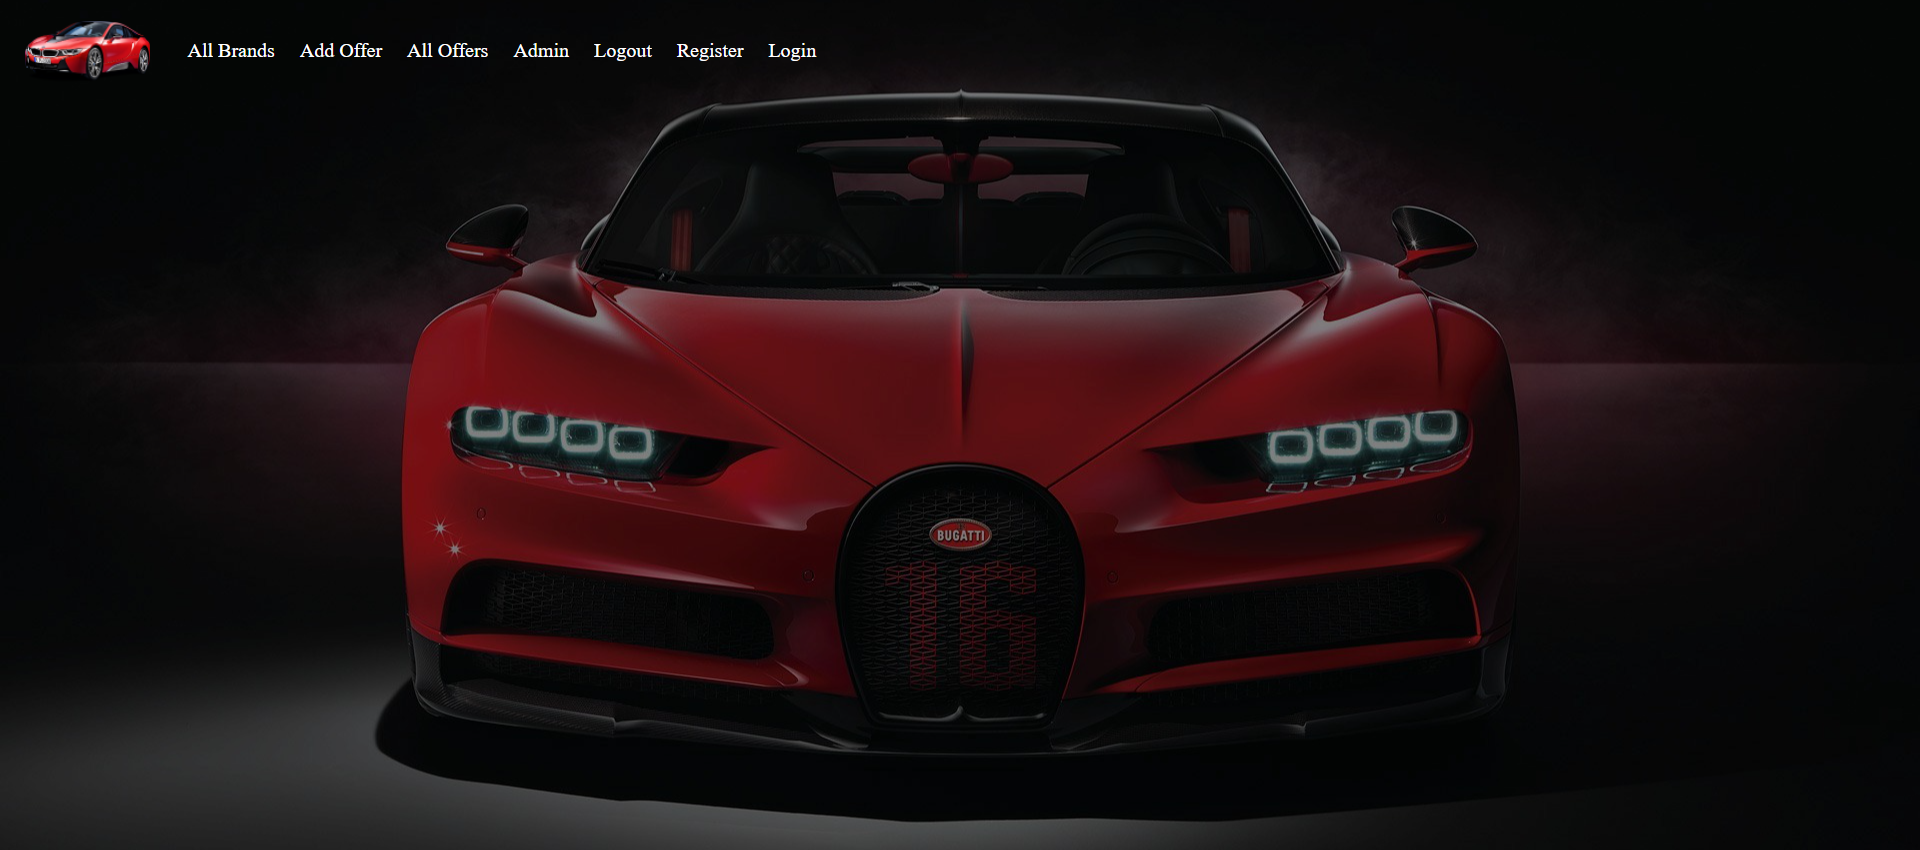
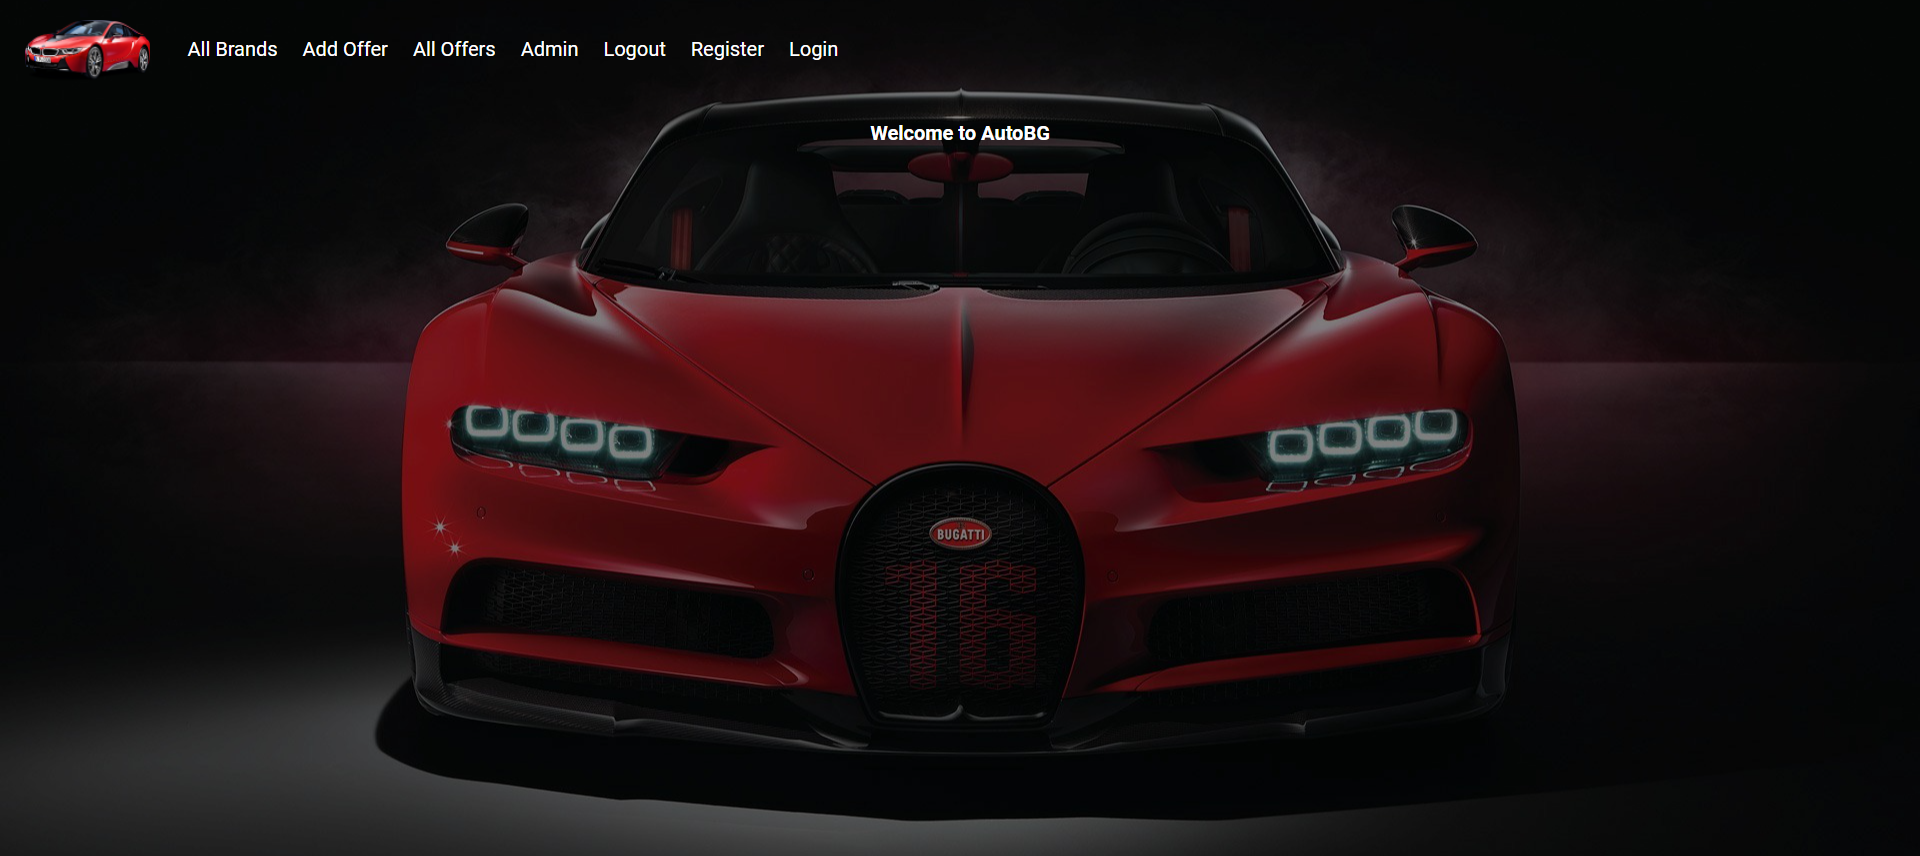
[Update] Changed the font family of the navigation

diff --git a/src/main/resources/static/css/main.css b/src/main/resources/static/css/main.css
@@ -6,6 +6,7 @@ body {
     background-size: cover;
     background-color: #464646;
     position: relative;
+    font-family: 'Roboto', sans-serif;
 
 }
 
@@ -40,5 +41,12 @@ body {
 
 .nav ul li {
     margin-right: 10px;
+}
+
+.welcome-msg {
+    color: white;
+    text-align: center;
+    margin-top: 30px;
+    font-weight: bold;
 }
 

diff --git a/src/main/resources/templates/index.html b/src/main/resources/templates/index.html
@@ -27,6 +27,10 @@
     </ul>
 </nav>
 
+<h3 class="welcome-msg">
+    Welcome to AutoBG
+</h3>
+
 <div>
     <footer></footer>
 </div>
